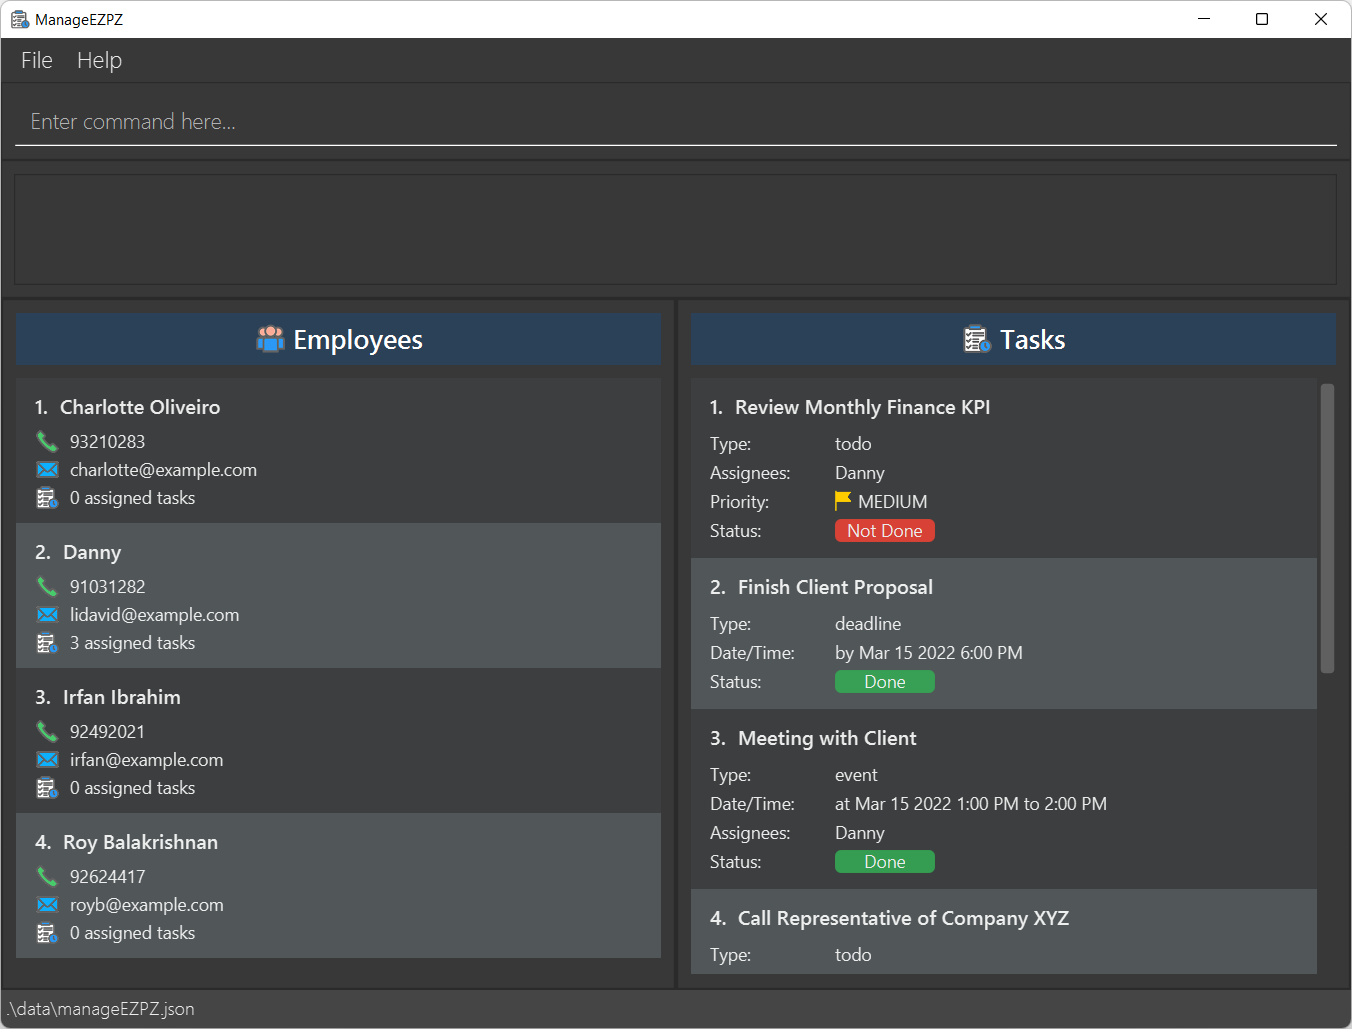
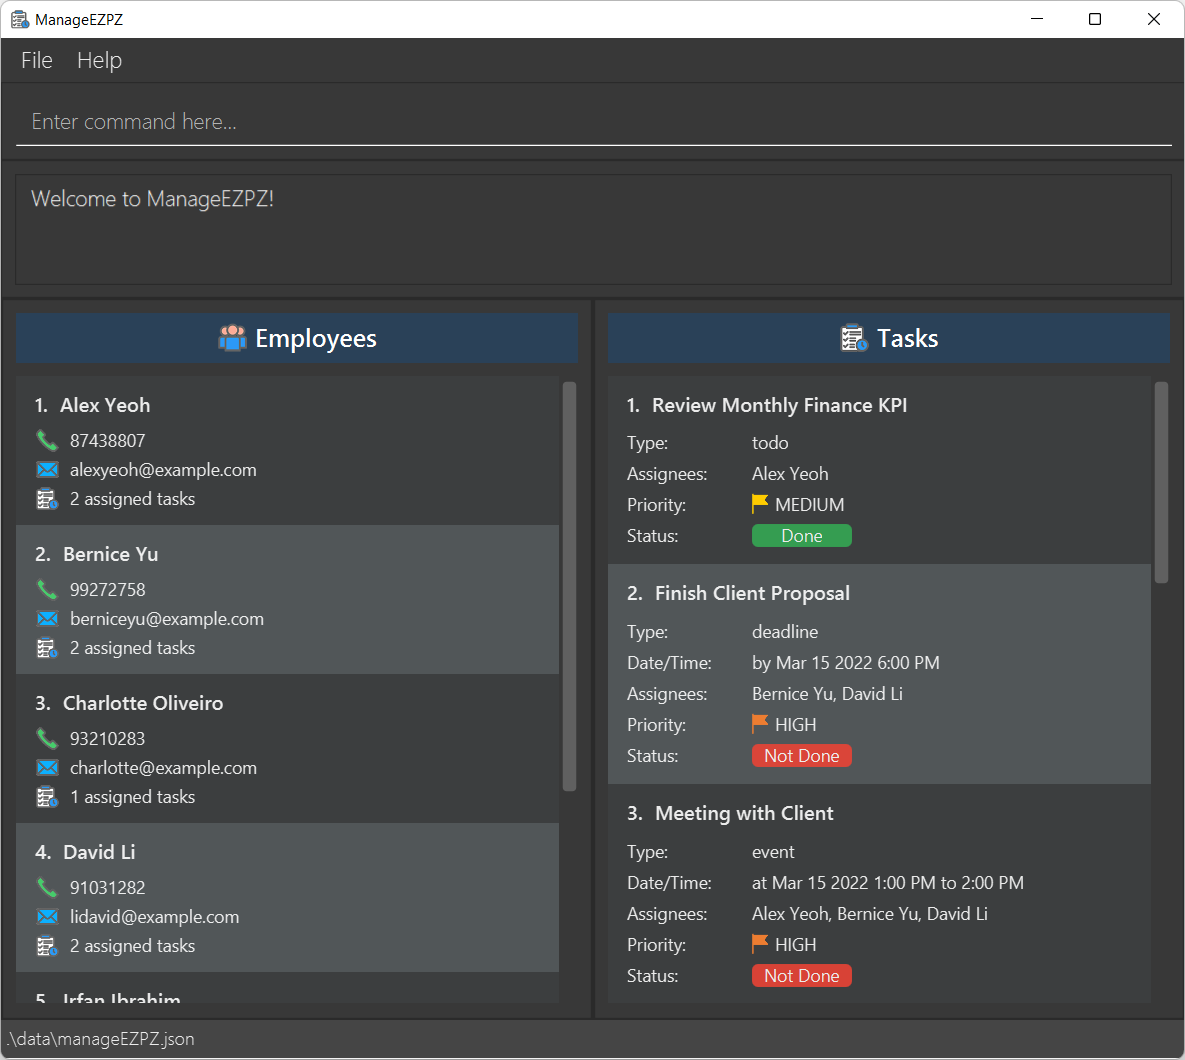
Make final updates to UI
* Change font size of Employees and Tasks heading from 14pt to 15pt
* Add welcome text message when user launches the application
* Update Ui.png

diff --git a/src/main/resources/view/DarkTheme.css b/src/main/resources/view/DarkTheme.css
@@ -29,7 +29,7 @@
 }
 
 .label-list-header {
-    -fx-font-size: 14pt;
+    -fx-font-size: 15pt;
     -fx-font-family: "Segoe UI Semibold";
     -fx-text-fill: white;
     -fx-opacity: 1;

diff --git a/src/main/java/manageezpz/ui/ResultDisplay.java b/src/main/java/manageezpz/ui/ResultDisplay.java
@@ -12,12 +12,14 @@ import javafx.scene.layout.Region;
 public class ResultDisplay extends UiPart<Region> {
 
     private static final String FXML = "ResultDisplay.fxml";
+    private static final String WELCOME_MESSAGE = "Welcome to ManageEZPZ!";
 
     @FXML
     private TextArea resultDisplay;
 
     public ResultDisplay() {
         super(FXML);
+        resultDisplay.setText(WELCOME_MESSAGE);
     }
 
     public void setFeedbackToUser(String feedbackToUser) {
